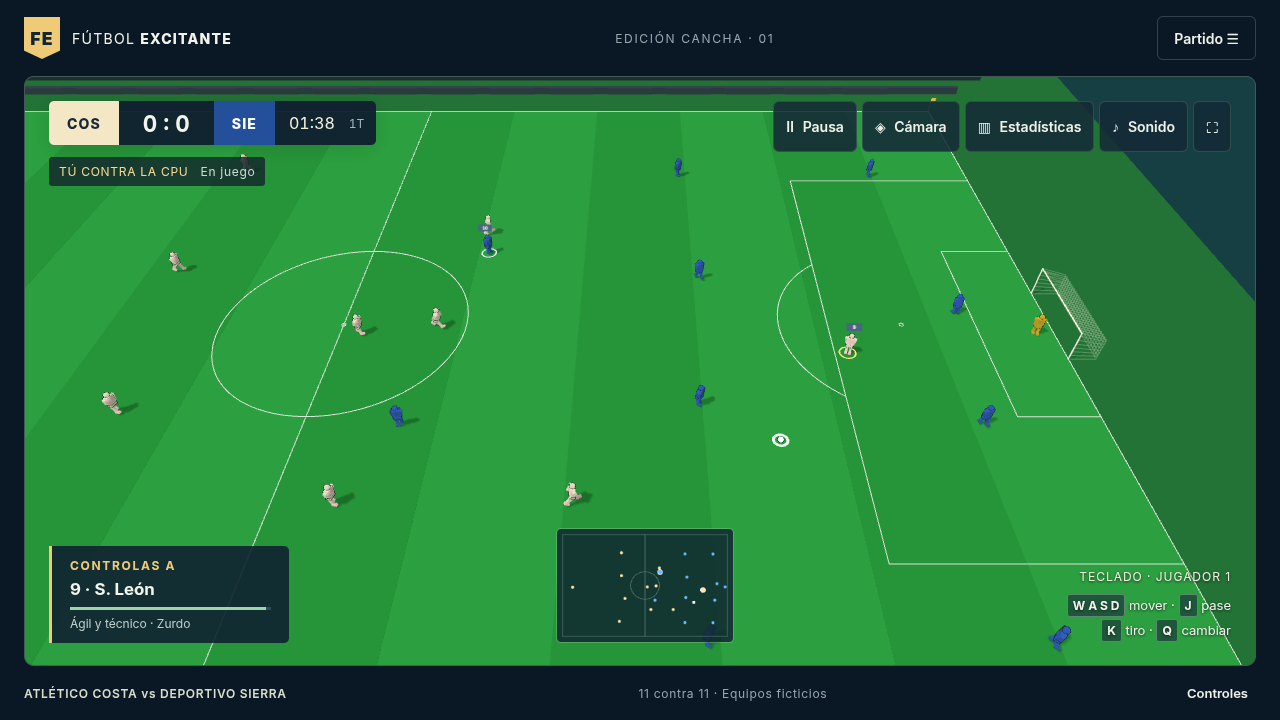
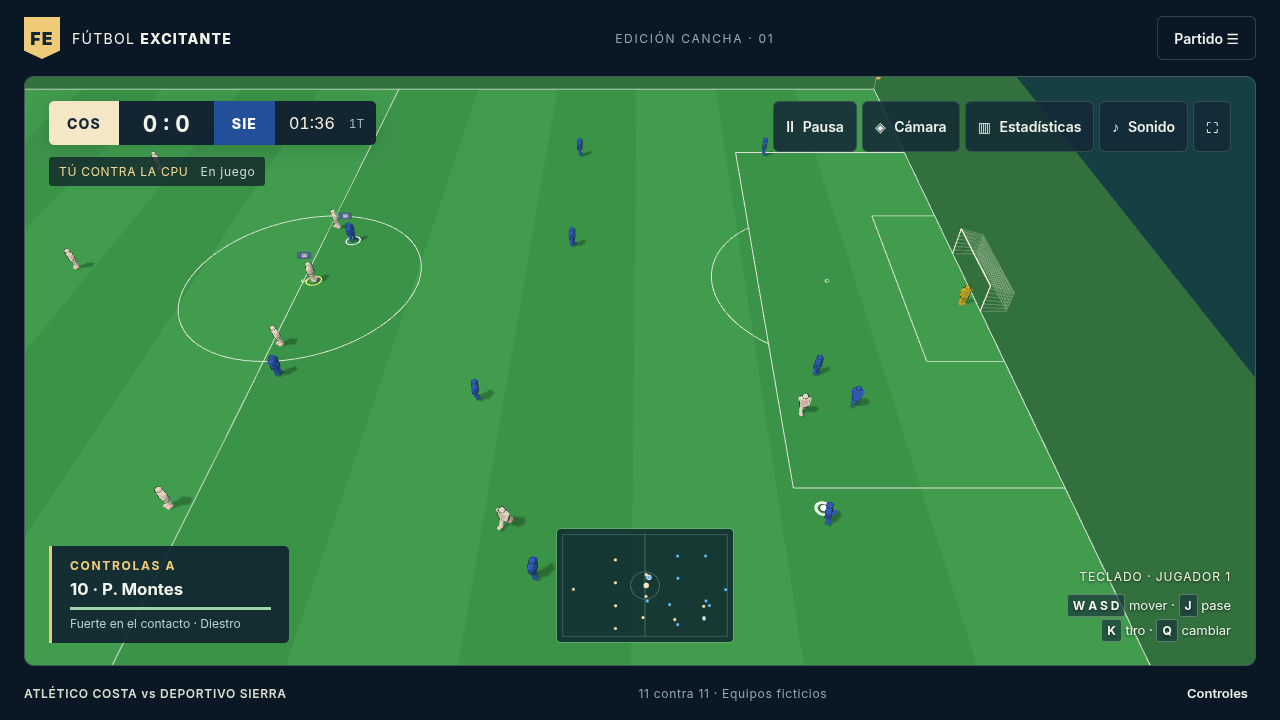
C11: tone down the Viva pitch green to a natural grass hue

diff --git a/src/adapters/presentation-model.ts b/src/adapters/presentation-model.ts
@@ -44,7 +44,7 @@ export class CameraRig {
 /** Linear-light value bands: quiet ground, clear teams, and a white ball. */
 export interface Kit { shirt:string; shorts:string; accent:string; pattern:'band'|'plain' }
 export const PITCH_PALETTES={
-  viva:{pitch:['#238c35','#29963c'],surround:'#206c32',stands:['#243438','#29393c']},
+  viva:{pitch:['#378a43','#3d9349'],surround:'#2e6a39',stands:['#243438','#29393c']},
   sobria:{pitch:['#4c6e57','#50725b'],surround:'#3a5446',stands:['#243438','#29393c']}
 } as const;
 export type PitchPaletteId=keyof typeof PITCH_PALETTES;
